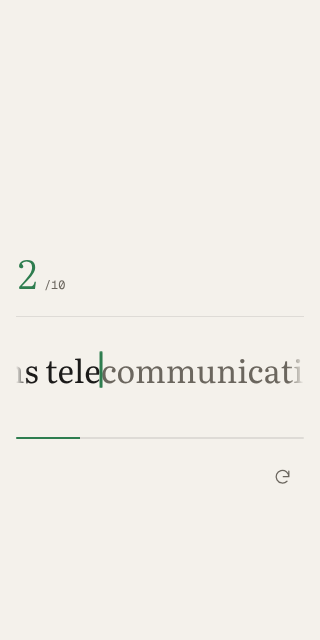
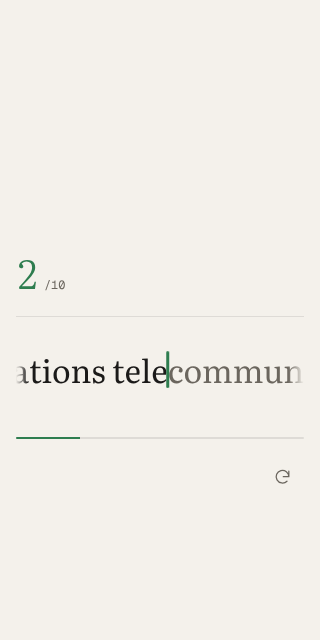
Keep the tape still across trims, corrections and text-size changes
Size the trim spacer to the word's exact x, remount passed words before a step back can show it,
restore them when the text size changes, and measure the lead and backspace guard in glyphs so
corrections on a narrow screen with large text stay clear of the left fade without extra steps.

Claude-Session: https://claude.ai/code/session_01SaBNo9RHRaTR8cCUjK1iLD

Changed region(s): [[0.0312, 0.5312, 0.9375, 0.625]]

diff --git a/e2e/tape-mode.spec.js b/e2e/tape-mode.spec.js
@@ -39,6 +39,20 @@ const tapeState = (page) => page.evaluate(() => new Promise((resolve) => request
   });
 }))));
 
+// Every mounted word's x along the line (untransformed), the scroll, and where the trim spacer ends.
+const lineState = (page) => page.evaluate(() => new Promise((resolve) => requestAnimationFrame(() => requestAnimationFrame(() => {
+  const display = document.getElementById('text-display');
+  const origin = display.getBoundingClientRect().left;
+  const match = /translateX\((-?[\d.]+)px\)/.exec(display.style.transform);
+  const words = {};
+  for (const word of display.querySelectorAll('.word')) words[word.dataset.wordIndex] = word.getBoundingClientRect().left - origin;
+  const spacer = display.querySelector('.passage-spacer');
+  resolve({ typed: document.getElementById('typing-input').value.length, offset: match ? -Number(match[1]) : 0, spacerEnd: spacer ? spacer.getBoundingClientRect().right - origin : null, words });
+}))));
+
+// The largest move of any word mounted in both states.
+const drift = (a, b) => Math.max(0, ...Object.keys(b.words).filter((key) => key in a.words).map((key) => Math.abs(b.words[key] - a.words[key])));
+
 // Types one key at a time and records every position of the tape.
 async function trace(page, text) {
   await page.locator('#typing-input').focus();
@@ -145,6 +159,37 @@ test('the tape steps by whole words near the right edge, never per letter', asyn
   }
 });
 
+test('trimming and remounting passed words moves nothing on the line', async ({ page }) => {
+  test.setTimeout(90_000);
+  await openApp(page);
+  await setTape(page, true);
+  await chooseWords(page, 100);
+  const text = await passageText(page);
+  // Across each trim (every 160 characters), every word that stays keeps its exact x.
+  let previous;
+  for (const [from, to] of [[150, 170], [310, 330]]) {
+    await typeInto(page, text.slice(previous?.typed ?? 0, from));
+    previous = await lineState(page);
+    for (const char of text.slice(from, to)) {
+      await page.keyboard.type(char);
+      const state = await lineState(page);
+      expect(drift(previous, state), `typed ${state.typed}`).toBeLessThan(0.05);
+      previous = state;
+    }
+  }
+  expect(previous.spacerEnd).toBeGreaterThan(0);
+  // Backspacing a long way: no blank stretch where the spacer would show, and the words come
+  // back exactly where they were.
+  while (previous.spacerEnd !== null && previous.typed > 0) {
+    await page.keyboard.press('Backspace');
+    const state = await lineState(page);
+    expect(drift(previous, state), `typed ${state.typed}`).toBeLessThan(0.05);
+    if (state.spacerEnd !== null) expect(state.spacerEnd - state.offset, `typed ${state.typed}`).toBeLessThanOrEqual(12);
+    previous = state;
+  }
+  expect(previous.typed).toBeGreaterThan(0);
+});
+
 test.describe('narrow phone with large text', () => {
   test.use({ viewport: { width: 320, height: 640 }, hasTouch: true, isMobile: true });
 
@@ -176,6 +221,30 @@ test.describe('narrow phone with large text', () => {
     expect(steps.length).toBeLessThan(states.length / 4);
     expect(await overflow(page)).toBeLessThanOrEqual(0);
     await page.screenshot({ path: shotPath(testInfo, 'tape-320-large') });
+  });
+
+  test('backspacing keeps the letter before the caret clear of the left fade', async ({ page }) => {
+    await openApp(page);
+    await openSettings(page);
+    await page.locator('#font-size').selectOption('36');
+    await page.locator('#tape-toggle').check();
+    await page.keyboard.press('Escape');
+    await chooseWords(page, 50);
+    const text = await passageText(page);
+    await typeInto(page, text.slice(0, 120));
+    for (let index = 0; index < 100; index += 1) {
+      await page.keyboard.press('Backspace');
+      // The letter Backspace would delete next, in px from the visible left edge.
+      const left = await page.evaluate(() => new Promise((resolve) => requestAnimationFrame(() => requestAnimationFrame(() => {
+        const display = document.getElementById('text-display');
+        const match = /translateX\((-?[\d.]+)px\)/.exec(display.style.transform);
+        const offset = match ? -Number(match[1]) : 0;
+        const letters = [...display.querySelectorAll('.char')];
+        const before = letters[letters.indexOf(display.querySelector('.char.current')) - 1];
+        resolve(before ? before.getBoundingClientRect().left - display.getBoundingClientRect().left - offset : null);
+      }))));
+      if (left !== null) expect(left, `after ${index + 1} backspaces`).toBeGreaterThanOrEqual(11.5);
+    }
   });
 });
 
@@ -231,11 +300,28 @@ test('switching layouts mid-run keeps the run going and the caret in view', asyn
   expect(state.caret).toBeGreaterThanOrEqual(0);
   expect(state.caret).toBeLessThanOrEqual(state.width);
 
+  // A new text size, or a resize across the 760px breakpoint, reshapes the line, so the trimmed
+  // words come back instead of leaving a spacer of the old width.
+  await expect(page.locator('#text-display > .passage-spacer')).toHaveCount(1);
+  await page.mouse.move(5, 5);
+  await page.mouse.move(60, 60);
+  await openSettings(page);
+  await page.locator('#font-size').selectOption('22');
+  await page.keyboard.press('Escape');
+  await expect(page.locator('#text-display > .passage-spacer')).toHaveCount(0);
+  await page.locator('#typing-input').focus();
+  await page.keyboard.type(text[440]);
+  await expect(page.locator('#text-display > .passage-spacer')).toHaveCount(1);
+  await page.setViewportSize({ width: 700, height: 800 });
+  await expect(page.locator('#text-display > .passage-spacer')).toHaveCount(0);
+  await page.setViewportSize({ width: 1280, height: 800 });
+  await expect(page.locator('#typing-status')).toHaveText('In progress');
+
   await page.mouse.move(5, 5);
   await page.mouse.move(60, 60);
   await setTape(page, false);
   await page.locator('#typing-input').focus();
-  await page.keyboard.type(text.slice(440, 450));
+  await page.keyboard.type(text.slice(441, 450));
   const wrap = await page.locator('#typing-wrap').boundingBox();
   await expect.poll(async () => {
     const caret = await page.locator('#text-display .caret').boundingBox();

diff --git a/src/app.js b/src/app.js
@@ -273,12 +273,12 @@ function updateGlides(options) {
 }
 
 function applyPreferences() {
-  document.body.dataset.fontSize = prefs.fontSize;
-  if (document.body.dataset.tape !== String(prefs.tape)) {
-    // Trimmed words leave a spacer shaped for one layout; put them back before switching.
+  if (document.body.dataset.tape !== String(prefs.tape) || document.body.dataset.fontSize !== String(prefs.fontSize)) {
+    // Trimmed words leave a spacer shaped for one layout and text size; put them back first.
     primaryTextView?.restore();
-    document.body.dataset.tape = String(prefs.tape);
   }
+  document.body.dataset.fontSize = prefs.fontSize;
+  document.body.dataset.tape = String(prefs.tape);
   primaryFx.relayout();
   document.body.dataset.liveMetrics = String(prefs.liveMetrics);
   document.body.dataset.keyboard = String(prefs.keyboard);
@@ -334,6 +334,7 @@ function renderText(display, text, { tape = () => false } = {}) {
   let renderedWords = 0;
   let firstRenderedWord = 0;
   let lastTrimPosition = 0;
+  let lastPosition = 0;
 
   words.forEach((word, wordIndex) => {
     const group = document.createElement('span');
@@ -391,7 +392,8 @@ function renderText(display, text, { tape = () => false } = {}) {
     if (!firstKept || firstKept === display.querySelector('.word')) return;
     const spacer = document.createElement('span');
     spacer.className = 'passage-spacer';
-    spacer.style.width = `${firstKept.offsetLeft}px`;
+    // The word's exact x, not the rounded offsetLeft; the shared transform cancels out.
+    spacer.style.width = `${firstKept.getBoundingClientRect().left - display.getBoundingClientRect().left}px`;
     for (const child of [...display.childNodes]) {
       if (child === firstKept) break;
       if (child.classList?.contains('caret') || child.classList?.contains('ghost-caret')) continue;
@@ -401,6 +403,14 @@ function renderText(display, text, { tape = () => false } = {}) {
     firstRenderedWord = Number(firstKept.dataset.wordIndex);
   }
 
+  // Tape mode, backspacing: a step back can show up to a line-width behind the caret, so the
+  // trimmed words come back before the spacer could show as a blank stretch.
+  function nearTapeSpacer(position) {
+    const spacer = display.querySelector('.passage-spacer');
+    const at = characters[Math.min(position, characters.length - 1)];
+    return Boolean(spacer && at?.isConnected) && at.offsetLeft - spacer.offsetWidth < display.clientWidth;
+  }
+
   display.replaceChildren();
   appendWords(100);
   characters[0]?.classList.add('current');
@@ -408,9 +418,12 @@ function renderText(display, text, { tape = () => false } = {}) {
     characters,
     ensureAhead(position) {
       const currentWord = characterWords[Math.min(position, characters.length - 1)] || 0;
+      const back = position < lastPosition;
+      lastPosition = position;
       // A separator before the first mounted word maps to that word, but is
       // itself detached. Remount it when backspacing reaches the boundary.
-      if (currentWord < firstRenderedWord || (currentWord === firstRenderedWord && !characters[position]?.isConnected)) {
+      if (currentWord < firstRenderedWord || (currentWord === firstRenderedWord && !characters[position]?.isConnected)
+        || (back && firstRenderedWord && tape() && nearTapeSpacer(position))) {
         remountTrimmed();
         lastTrimPosition = position;
       }
@@ -2027,6 +2040,8 @@ listenForSequence(toggleGhost);
 
 let resizeFrame = 0;
 addEventListener('resize', () => {
+  // On one line, crossing the 760px breakpoint changes the text size, which the trim spacer cannot follow.
+  if (prefs.tape) primaryTextView?.restore();
   primaryFx.relayout();
   raceFx.relayout();
   cancelAnimationFrame(resizeFrame);

diff --git a/tests/tape.test.js b/tests/tape.test.js
@@ -66,8 +66,55 @@ test('a re-layout keeps the tape if the caret is still in view and lines the wor
 });
 
 test('the result is whole pixels and degenerate input falls back to the start', () => {
-  assert.equal(tapeOffset({ offset: 0, caret: 733.4, word: at(733.4), width: 987, margin }), Math.round(733.4 - 98.7));
+  assert.equal(tapeOffset({ offset: 0, caret: 733.4, word: at(733.4), width: 987, margin: 30 }), Math.round(733.4 - 98.7));
   assert.equal(tapeOffset({ offset: 300, caret: 500, width: 0, margin }), 0);
   assert.equal(tapeOffset({ offset: 300, caret: Number.NaN, width, margin }), 0);
   assert.equal(tapeOffset({ offset: Number.NaN, caret: 10, width, margin }), 0);
+});
+
+// A 320px phone with large text: a 288px line, 32px letters (56px line height, so the margin is
+// 33.6px), a 12px left fade. A typical letter is 16px, the space 8px, and "m" the widest at 31px.
+const phone = { width: 288, margin: 33.6, fade: 12 };
+
+test('on a narrow screen with large text, a correction just after a step holds the line still', () => {
+  const word = at(1000, 80);
+  const offset = tapeOffset({ offset: 760, caret: 1000, word, ...phone });
+  assert.ok(offset > 760, 'stepped');
+  // The space and an "m" before the new word sit clear of the fade.
+  assert.ok(1000 - 8 - 31 - offset >= phone.fade, `${1000 - 8 - 31 - offset}`);
+  // Backspace onto the space, then onto that last letter, then type both again: no step back.
+  for (const caret of [992, 961, 992, 1000]) assert.equal(tapeOffset({ offset, caret, ...phone }), offset, `caret ${caret}`);
+});
+
+test('on a narrow screen with large text, backspacing keeps the letter before the caret clear of the fade', () => {
+  let offset = 2000;
+  let steps = 0;
+  for (let caret = 2250; caret >= 400; caret -= 16) {
+    const next = tapeOffset({ offset, caret, ...phone });
+    if (next !== offset) steps += 1;
+    offset = next;
+    // Room for one more glyph (about the margin) between the fade and the caret.
+    assert.ok(caret - offset >= phone.fade + phone.margin - 0.5, `caret ${caret} at ${caret - offset}`);
+  }
+  // A step at a time, each one at least a third of the line apart.
+  assert.ok(steps <= Math.ceil(1850 / (phone.width / 3)), `${steps} steps`);
+});
+
+test('text too large for the line still steps by chunks, never on every key', () => {
+  // Text scaled far past the settings: the glyph-based lead and guard are capped by the line.
+  const huge = { width: 288, margin: 100, fade: 12 };
+  let offset = 3000;
+  let previousStep = Infinity;
+  for (let caret = 3200; caret >= 1000; caret -= 20) {
+    const next = tapeOffset({ offset, caret, ...huge });
+    if (next !== offset) {
+      assert.ok(previousStep - caret > 20, `stepped again at ${caret}`);
+      previousStep = caret;
+    }
+    offset = next;
+  }
+  // Forward, a step lands the word inside the line and no step back follows.
+  const forward = tapeOffset({ offset: 0, caret: 250, word: at(250, 60), ...huge });
+  assert.ok(250 - forward > 0 && 250 - forward <= huge.width / 2);
+  assert.equal(tapeOffset({ offset: forward, caret: 270, ...huge }), forward);
 });

diff --git a/src/tape.js b/src/tape.js
@@ -4,7 +4,8 @@
 // inside the word instead, still a chunk at a time. Pure geometry, so it can be tested without a
 // browser. motion.js applies the result, and scoring never reads it.
 
-// A stepped word lands this far in, so the end of the previous word stays in view.
+// A stepped word lands this far in, so the end of the previous word stays in view. On a narrow
+// screen or with large text the lead is measured in glyphs instead (see tapeOffset).
 export const TAPE_LEAD = 0.1;
 // The tape steps when the caret starts a word past this point, leaving the rest as lookahead.
 export const TAPE_REACH = 0.7;
@@ -20,16 +21,21 @@ export const TAPE_BACK = 0.5;
  * word     { left, right } of the word the caret has just entered going forward, or (with realign)
  *          the word it is in; null otherwise
  * width    the visible width of the line
- * margin   how close the caret may come to the right edge
+ * margin   how close the caret may come to the right edge, about one glyph
+ * fade     the width of the left edge's fade
  * realign  the layout changed (resize, text size, switching to tape): keep the current scroll
  *          if the caret is still comfortably in view, otherwise line its word up again
  */
-export function tapeOffset({ offset = 0, caret = 0, word = null, width = 0, margin = 0, realign = false }) {
+export function tapeOffset({ offset = 0, caret = 0, word = null, width = 0, margin = 0, fade = 0, realign = false }) {
   if (!(width > 0) || !Number.isFinite(caret)) return 0;
-  const lead = width * TAPE_LEAD;
+  // In glyphs as well as width, so a narrow screen with large text still works. Backspacing steps
+  // back before the letter left of the caret reaches the fade (guard), and a stepped word lands far
+  // enough in that the space and the letter before it can be corrected without a step back (lead).
+  // Capped so a step back never lands inside the guard, which would step again on every key.
+  const lead = Math.min(width * TAPE_BACK, Math.max(width * TAPE_LEAD, fade + margin * 2.5));
+  const guard = Math.min(lead / 2, Math.max(width * TAPE_LEAD / 2, fade + margin));
   const reach = width * TAPE_REACH;
   const edge = width - margin;
-  const guard = lead / 2;
   let next = Math.max(0, Number.isFinite(offset) ? offset : 0);
   const visible = caret - next;
   if (realign) {

diff --git a/src/styles.css b/src/styles.css
@@ -927,6 +927,8 @@ body[data-font-size="36"] .typing-wrap { --passage-size: 44px; }
    line-scroll transition as above, never letter by letter (src/tape.js). Edges fade sideways;
    the left fade appears once typed text has moved past it. */
 body[data-tape="true"] .typing-wrap {
+  /* The left fade; src/motion.js reads it so letters being corrected stay clear of it. */
+  --tape-fade: var(--space-3);
   /* The unwrapped line must not widen the column around it. */
   contain: inline-size;
   height: var(--typing-line);
@@ -935,8 +937,8 @@ body[data-tape="true"] .typing-wrap {
 }
 
 body[data-tape="true"] .typing-wrap[data-tape-scrolled="true"] {
-  -webkit-mask-image: linear-gradient(to right, transparent 0, #000 var(--space-3), #000 calc(100% - var(--space-4)), transparent 100%);
-  mask-image: linear-gradient(to right, transparent 0, #000 var(--space-3), #000 calc(100% - var(--space-4)), transparent 100%);
+  -webkit-mask-image: linear-gradient(to right, transparent 0, #000 var(--tape-fade), #000 calc(100% - var(--space-4)), transparent 100%);
+  mask-image: linear-gradient(to right, transparent 0, #000 var(--tape-fade), #000 calc(100% - var(--space-4)), transparent 100%);
 }
 
 body[data-tape="true"] #text-display { white-space: pre; overflow-wrap: normal; }

diff --git a/src/motion.js b/src/motion.js
@@ -99,7 +99,8 @@ export function createTypingFx(wrap, display, options = {}) {
       const { left } = offsetIn(word, display);
       span = { left, right: left + word.offsetWidth };
     }
-    tapeScroll = tapeOffset({ offset: tapeScroll, caret: x, word: span, width: display.clientWidth, margin: lineHeight * 0.6, realign });
+    const fade = parseFloat(getComputedStyle(wrap).getPropertyValue('--tape-fade')) || 0;
+    tapeScroll = tapeOffset({ offset: tapeScroll, caret: x, word: span, width: display.clientWidth, margin: lineHeight * 0.6, fade, realign });
     const scrolled = String(tapeScroll > 0);
     if (wrap.dataset.tapeScrolled !== scrolled) wrap.dataset.tapeScrolled = scrolled;
     setScroll(tapeScroll ? `translateX(-${tapeScroll}px)` : '', realign);

diff --git a/DESIGN.md b/DESIGN.md
@@ -244,7 +244,7 @@ A warm, low-chroma neutral ramp with one green and one coral. The palette is def
 - **Numeral** (300, 132px, 0.9, -0.04em; 112px under 760px): the WPM figure on the run card. Tabular lining figures.
 - **Display** (400, 48px, 1.05–1.08, -0.025em; 38px under 760px): screen headings on practice sessions and results.
 - **Live stat** (300, 48px, 1, -0.035em; 40px under 760px): the live WPM, accuracy and timer, baseline-aligned with a mono unit.
-- **Passage** (400, 36px at the default "medium" setting, line height 1.75, -0.004em, ligatures off): the typing text. The settings give 29px, 36px or 44px on desktop, and 22px, 26px or 32px under 760px. Three lines are visible, with the top and bottom edges faded by a mask.
+- **Passage** (400, 36px at the default "medium" setting, line height 1.75, -0.004em, ligatures off): the typing text. The settings give 29px, 36px or 44px on desktop, and 22px, 26px or 32px under 760px. Three lines are visible (one with the one-line tape), with the top and bottom edges faded by a mask (side fades on the tape).
 - **Title** (400, 30px, 1.2, -0.015em): section headings (comparison, recommendation, empty states, challenge panels).
 - **Body** (400, 17px, 1.6): running copy, capped at 56–60ch.
 - **Small** (400, 15px): notes, help lines, toasts, and settings labels. Italic Literata marks quiet asides (input help, metric note, "versus", empty palette).
@@ -331,7 +331,7 @@ Below 360px, the run-card WPM uses `--text-numeral-narrow` (80px); the existing 
 ### Typing zone (signature)
 Three passage lines are visible, with 12–16px mask fades at the top and bottom. Untyped letters are muted, correct letters are text-coloured, and wrong letters are coral with a tint (no underline). The caret is a 3px accent bar driven by a stiff spring (stiffness 1400, damping 70). It breathes (opacity to 0.25 over 1300ms) only while idle, drops to 35% when unfocused, turns coral when blocked, and disappears at the finish. Line changes translate the passage over 150ms. The optional ghost pacer is a 2px periwinkle bar at 70% opacity.
 
-The one-line tape (a setting, off by default) shows a single line with 12–16px side fades instead; the left fade appears once typed text has moved under it. It obeys still run: the caret travels right while the line holds still, and when the caret starts a word past 70% of the width, the line steps once so that word sits a tenth of the way in, with the same 150ms translate. A word longer than the line steps inside the word, a chunk at a time, never letter by letter. Backspacing into the left edge steps back. Under reduced motion every step is instant. The geometry is in `src/tape.js`.
+The one-line tape (a setting, off by default) shows a single line with 12–16px side fades instead; the left fade appears once typed text has moved under it. It obeys still run: the caret travels right while the line holds still, and when the caret starts a word past 70% of the width, the line steps once so that word sits a tenth of the way in (further on a narrow screen or with large text, so the space and last letter before it stay clear of the left fade), with the same 150ms translate. A word longer than the line steps inside the word, a chunk at a time, never letter by letter. Backspacing steps back before the letter left of the caret reaches the left fade. Under reduced motion every step is instant. The geometry is in `src/tape.js`.
 
 ### Run card (signature)
 A static print: 22px corners, 22px padding, a strong hairline border, and the card-stock gradient. From top to bottom it holds a mono date stamp, the 16:9 speed graph (an SVG line chart: a 2px accent line of wpm per second, averaged over a trailing three seconds; a dotted muted line at the final wpm; coral dots on the line where mistakes happened; hairline gridlines at 0, half and top with 12px mono labels, and a mono time axis), a one-line mono legend, which draws once over about 450ms (`--dur-develop`), the numeral WPM with a mono unit, a three-column facts list (mono labels, 24px Literata values), an italic 13px metric note, and the mono conditions line. It does not tilt, shine or animate after the graph has drawn.
